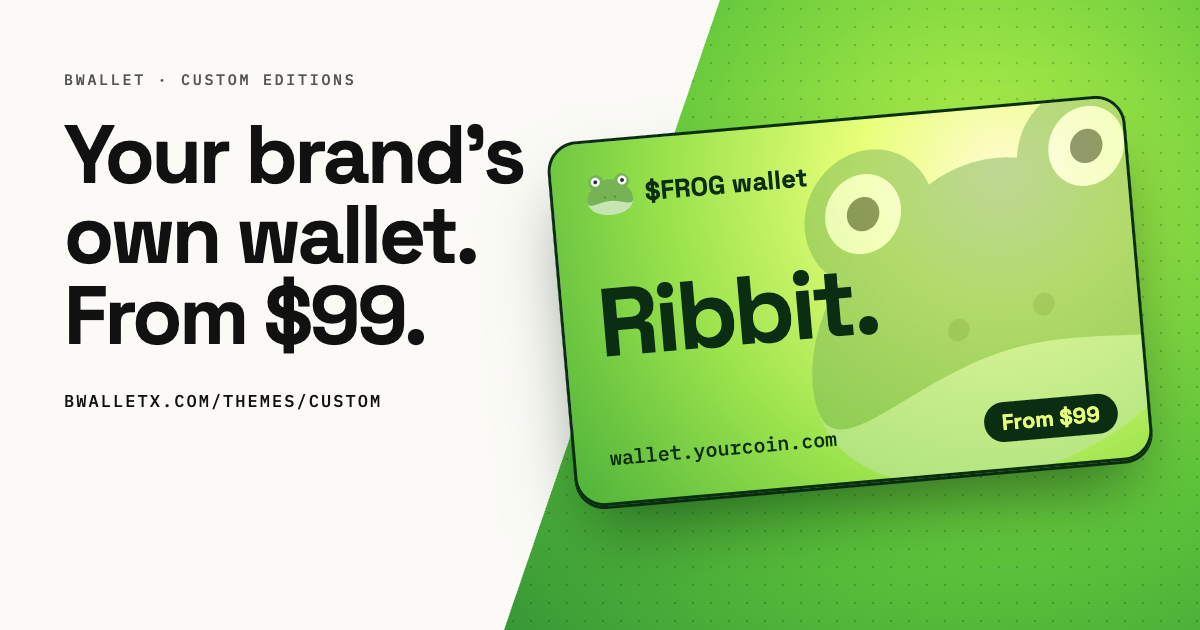
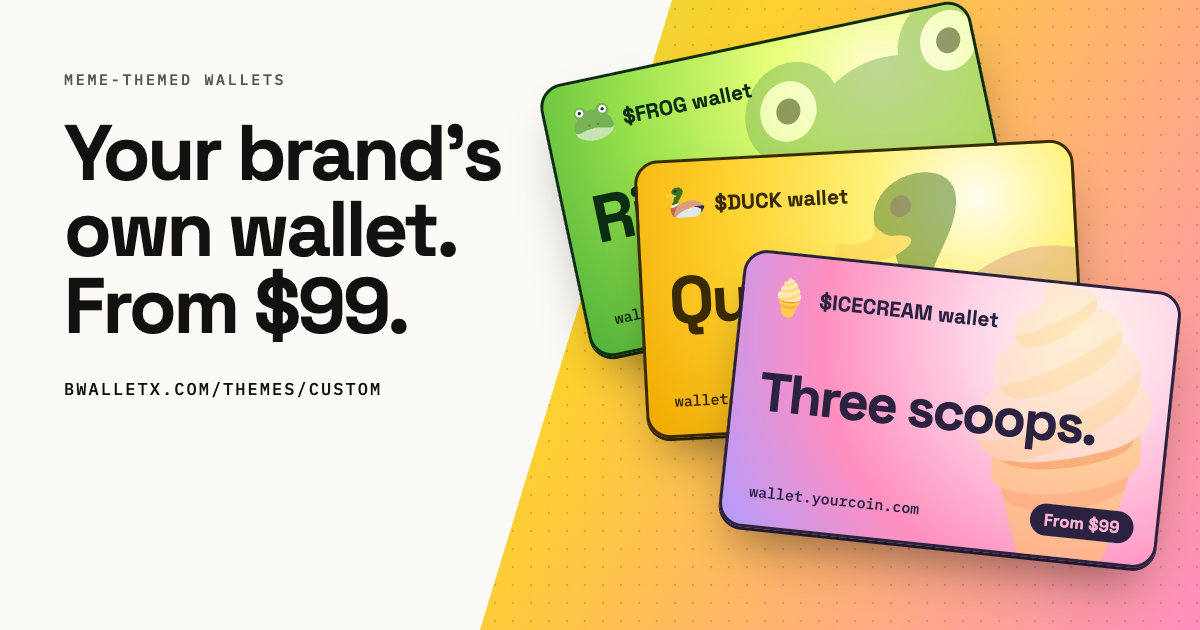
Custom editions: cycling meme wallets

diff --git a/themes-custom.html b/themes-custom.html
@@ -11,15 +11,15 @@
     <meta property="og:site_name" content="bWalletX" />
     <meta property="og:title" content="Meme wallets for memecoin communities. From $99." />
     <meta property="og:description" content="Your brand's own self-custody wallet: Theme edition $99/yr, Branded edition from $999, Native app by quote." />
-    <meta property="og:image" content="https://bwalletx.com/og-themes-custom.png?v=3" />
+    <meta property="og:image" content="https://bwalletx.com/og-themes-custom.png?v=4" />
     <meta property="og:image:width" content="1200" />
     <meta property="og:image:height" content="630" />
-    <meta property="og:image:alt" content="A diagonal split: the free black-and-white bWallet card on white, cut through to a frog-green $FROG wallet card, headed Your brand&rsquo;s own wallet. From $99." />
+    <meta property="og:image:alt" content="Three fanned meme-themed wallet cards, $FROG, $DUCK and $ICECREAM, on a diagonal split, headed Your brand&rsquo;s own wallet. From $99." />
     <meta name="twitter:card" content="summary_large_image" />
     <meta name="twitter:site" content="@bWalletX" />
     <meta name="twitter:title" content="Meme wallets for memecoin communities. From $99." />
     <meta name="twitter:description" content="Your brand's own self-custody wallet: Theme edition $99/yr, Branded edition from $999, Native app by quote." />
-    <meta name="twitter:image" content="https://bwalletx.com/og-themes-custom.png?v=3" />
+    <meta name="twitter:image" content="https://bwalletx.com/og-themes-custom.png?v=4" />
     <link rel="icon" href="/favicon.ico" />
     <meta name="theme-color" content="#f7f6f2" />
     <link rel="preconnect" href="https://fonts.googleapis.com" />
@@ -201,7 +201,7 @@
         .tblock { grid-template-columns: 1fr 1fr; }
       }
       .card .bal { font-size: clamp(1.3rem, 3.6vw, 2.2rem); }
-      .specs { display: grid; grid-template-columns: repeat(3, minmax(0,1fr)); margin-top: 48px; border-top: .5px solid var(--ink); border-left: .5px solid var(--ink); }
+      .specs { display: grid; grid-template-columns: repeat(2, minmax(0,1fr)); margin-top: 48px; border-top: .5px solid var(--ink); border-left: .5px solid var(--ink); }
       .spec { border-right: .5px solid var(--ink); border-bottom: .5px solid var(--ink); background: var(--sheet); padding: 26px 24px; display: flex; flex-direction: column; }
       .spec .sno { margin: 0 0 18px; font-size: .66rem; color: var(--muted); border-bottom: .5px solid var(--ink); padding-bottom: 10px; }
       .spec .price { font: 600 2rem var(--hf); letter-spacing: -.03em; margin: 10px 0 0; }
@@ -222,17 +222,30 @@
       .cut .tag.a { left: 20px; top: 120px; color: var(--muted); border: .5px solid var(--hair); background: var(--sheet); }
       .cut .tag.b { right: 20px; top: 120px; color: #0b2e12; background: #e8ff7a; }
       .tp section.hero .num b { color: var(--ink); }
-      .card.frog { container-type: inline-size; border: 2px solid #0b2e12; color: #0b2e12; border-radius: 22px;
-        background: radial-gradient(circle at 78% 18%, #fffbd0 0, #e8ff7a 26%, #9be34c 62%, #4fb33a 100%);
-        box-shadow: 0 30px 60px -20px rgba(6,40,14,.55), 0 2px 0 #0b2e12; transform: rotate(-4deg); }
-      .card.frog .row1 i { border-color: #0b2e12; background: #0b2e12; box-shadow: inset 0 0 0 5px #e8ff7a; }
-      .card.frog .bm { color: #0b2e12; }
-      .card.frog .bal { font-size: clamp(2.2rem, 5.6vw, 3.6rem); color: #0b2e12; }
-      .card.frog .sats { color: #1d5a24; }
-      .card.frog .addr { color: #0b2e12; }
-      .card.frog .chip { background: #0b2e12 !important; color: #e8ff7a !important; border-color: #0b2e12 !important; }
-      .card.frog .frogart { position: absolute; z-index: 0; right: -10%; top: 54%; font-family: "Apple Color Emoji", "Segoe UI Emoji", "Noto Color Emoji", sans-serif; font-size: 62cqw; line-height: 1; opacity: .48; transform: translateY(-50%) rotate(-12deg) skewX(-6deg); pointer-events: none; }
-      .card.frog .froglogo { font-family: "Apple Color Emoji", "Segoe UI Emoji", "Noto Color Emoji", sans-serif; font-size: 26px; line-height: 1; width: 30px; height: 30px; display: inline-grid; place-items: center; }
+      .card.meme { container-type: inline-size; border: 2px solid var(--mi); color: var(--mi); border-radius: 22px;
+        background: var(--mbg); box-shadow: 0 30px 60px -20px var(--msh), 0 2px 0 var(--mi); transform: rotate(-4deg); }
+      .card.meme .bm, .card.meme .bal, .card.meme .addr { color: var(--mi); }
+      .card.meme .bal { font-size: clamp(2.2rem, 5.6vw, 3.6rem); }
+      .card.meme .sats { color: var(--ms); }
+      .card.meme .chip { background: var(--mi) !important; color: var(--mc) !important; border-color: var(--mi) !important; }
+      .m-frog { --mi: #0b2e12; --ms: #1d5a24; --mc: #e8ff7a; --msh: rgba(6,40,14,.55); --mbg: radial-gradient(circle at 78% 18%, #fffbd0 0, #e8ff7a 26%, #9be34c 62%, #4fb33a 100%); }
+      .m-duck { --mi: #3a2a00; --ms: #6b4e00; --mc: #ffe14d; --msh: rgba(80,55,0,.5); --mbg: radial-gradient(circle at 78% 18%, #fffdf0 0, #fff27a 26%, #ffd12e 62%, #f2a900 100%); }
+      .m-koala { --mi: #2b2620; --ms: #4d4438; --mc: #dfe8d6; --msh: rgba(40,34,26,.55); --mbg: radial-gradient(circle at 78% 18%, #f3f5ee 0, #cfd8c4 26%, #a59a86 64%, #7d705e 100%); }
+      .m-ice { --mi: #2b2140; --ms: #4a3f60; --mc: #ffb3d1; --msh: rgba(43,33,64,.45); --mbg: radial-gradient(circle at 78% 18%, #fff8ee 0, #ffd6e8 26%, #ff8fbf 64%, #b39cff 100%); }
+      .card.meme.alt { position: absolute !important; inset: 0; }
+      .card.meme { transition: opacity .9s ease; }
+      .card.meme.off { opacity: 0; pointer-events: none; }
+      .cut .col { transition: opacity .9s ease; }
+      .cut .col.off { opacity: 0; }
+      .cut .col.c-duck { background: radial-gradient(circle at 82% 30%, #fff27a 0, #ffd12e 34%, #e09a00 78%, #8a5a00 100%); }
+      .cut .col.c-koala { background: radial-gradient(circle at 82% 30%, #dfe6d4 0, #a9b39a 34%, #7d705e 78%, #4a4034 100%); }
+      .cut .col.c-ice { background: radial-gradient(circle at 82% 30%, #ffd6e8 0, #ff8fbf 34%, #b39cff 78%, #6a55b8 100%); }
+      .mdots { position: absolute; left: 50%; bottom: -40px; transform: translateX(-50%); display: flex; gap: 10px; z-index: 3; }
+      .mdots button { width: 12px; height: 12px; border-radius: 50%; border: 1.5px solid var(--ink); background: var(--sheet); padding: 0; cursor: pointer; }
+      .mdots button[aria-current="true"] { background: var(--ink); }
+      .kicker { font: 500 .72rem var(--mono); letter-spacing: .18em; text-transform: uppercase; margin: 0 0 10px; }
+      .card.meme .frogart { position: absolute; z-index: 0; right: -10%; top: 54%; font-family: "Apple Color Emoji", "Segoe UI Emoji", "Noto Color Emoji", sans-serif; font-size: 62cqw; line-height: 1; opacity: .48; transform: translateY(-50%) rotate(-12deg) skewX(-6deg); pointer-events: none; }
+      .card.meme .froglogo { font-family: "Apple Color Emoji", "Segoe UI Emoji", "Noto Color Emoji", sans-serif; font-size: 26px; line-height: 1; width: 30px; height: 30px; display: inline-grid; place-items: center; }
       .hero .obj { isolation: isolate; }
       .card.mono { position: absolute !important; inset: 0; transform: translate(-30%, -34%) rotate(3deg) scale(.86); z-index: -1; border-radius: 22px; box-shadow: 0 1px 0 rgba(0,0,0,.08); }
       .card.mono .bal { font-size: clamp(1.4rem, 3.6vw, 2.2rem); }
@@ -244,7 +257,7 @@
         .cut .tag { display: none; }
         .hero .split > div:last-child { padding-top: 64px; }
         .card.mono { transform: translate(-4%, -30%) rotate(3deg) scale(.9); }
-        .card.frog { transform: rotate(-2deg); }
+        .card.meme { transform: rotate(-2deg); }
         .cut .dsk { display: none; } .cut .mob { display: inline; }
       }
     </style>
@@ -264,11 +277,12 @@
     <svg width="0" height="0" style="position:absolute" aria-hidden="true"><defs><symbol id="b-outline" viewBox="20 6 80 104"><g fill="none" stroke="currentColor" stroke-width="4" stroke-linejoin="round" stroke-linecap="round"><path d="M29 28 L45 12 L45 44.87 A31 31 0 1 1 29 72 Z" /><path d="M74 72 A14 14 0 1 1 46 72 A14 14 0 1 1 74 72 Z" /></g></symbol></defs></svg>
     <main class="tp">
       <section class="hero">
-        <div class="cut" aria-hidden="true"><div class="col"></div>
+        <div class="cut" aria-hidden="true"><div class="col"></div><div class="col c-duck off"></div><div class="col c-koala off"></div><div class="col c-ice off"></div>
           <svg class="dl" viewBox="0 0 100 100" preserveAspectRatio="none"><line class="dsk" x1="64" y1="0" x2="46" y2="100" stroke="#111" stroke-width="1" vector-effect="non-scaling-stroke"/><line class="mob" x1="0" y1="60" x2="100" y2="52" stroke="#111" stroke-width="1" vector-effect="non-scaling-stroke"/></svg>
           <span class="tag a">Free &middot; bWallet</span><span class="tag b">Your brand &rarr;</span></div>
         <div class="wrapx split">
           <div>
+            <p class="kicker">Meme-themed wallets</p>
             <p class="num">Meme wallets for memecoin communities <b>Sheet 00 / 05</b></p>
             <h1>Your brand&rsquo;s own wallet. From $99.</h1>
             <p class="lede">A frog-themed wallet for a frog coin. Your colours, card art, icon and name, on a self-custody wallet your community already trusts to work.</p>
@@ -284,7 +298,8 @@
               <div class="addr">you@bwalletx.com</div>
               <div class="chip">Free</div>
             </div>
-            <div class="card frog" role="img" aria-label="An example frog-themed wallet card for a frog coin">
+            <!-- Generic example themes only. Real exchange tokens appear here only via a future opt-in "featured editions" feed, with the token owner's consent. -->
+            <div class="card meme m-frog" role="img" aria-label="An example frog-themed wallet card">
               <span class="frogart" aria-hidden="true">🐸</span>
               <div class="row1"><span class="froglogo" aria-hidden="true">🐸</span>$FROG wallet</div>
               <svg class="bm" viewBox="0 0 104 124"><use href="#b-outline" /></svg>
@@ -293,6 +308,34 @@
               <div class="addr">wallet.yourcoin.com</div>
               <div class="chip">From $99</div>
             </div>
+            <div class="card meme m-duck alt off" role="img" aria-label="An example duck-themed wallet card">
+              <span class="frogart" aria-hidden="true">🦆</span>
+              <div class="row1"><span class="froglogo" aria-hidden="true">🦆</span>$DUCK wallet</div>
+              <svg class="bm" viewBox="0 0 104 124"><use href="#b-outline" /></svg>
+              <div class="bal">Quack.</div>
+              <div class="sats">Example: a duck wallet for a duck coin</div>
+              <div class="addr">wallet.yourcoin.com</div>
+              <div class="chip">From $99</div>
+            </div>
+            <div class="card meme m-koala alt off" role="img" aria-label="An example koala-themed wallet card">
+              <span class="frogart" aria-hidden="true">🐨</span>
+              <div class="row1"><span class="froglogo" aria-hidden="true">🐨</span>$KOALA wallet</div>
+              <svg class="bm" viewBox="0 0 104 124"><use href="#b-outline" /></svg>
+              <div class="bal">G&rsquo;day.</div>
+              <div class="sats">Example: a koala wallet for a koala coin</div>
+              <div class="addr">wallet.yourcoin.com</div>
+              <div class="chip">From $99</div>
+            </div>
+            <div class="card meme m-ice alt off" role="img" aria-label="An example ice-cream-themed wallet card">
+              <span class="frogart" aria-hidden="true">🍦</span>
+              <div class="row1"><span class="froglogo" aria-hidden="true">🍦</span>$ICECREAM wallet</div>
+              <svg class="bm" viewBox="0 0 104 124"><use href="#b-outline" /></svg>
+              <div class="bal">Three scoops.</div>
+              <div class="sats">Example: three friends, one token</div>
+              <div class="addr">wallet.yourcoin.com</div>
+              <div class="chip">From $99</div>
+            </div>
+            <div class="mdots" role="group" aria-label="Example wallets"><button type="button" aria-label="$FROG" aria-current="true"></button><button type="button" aria-label="$DUCK"></button><button type="button" aria-label="$KOALA"></button><button type="button" aria-label="$ICECREAM"></button></div>
             </div></div>
             <div class="tblock" aria-label="Title block">
               <div class="t"><span>bWallet &middot; Custom editions</span><svg width="14" height="14" viewBox="0 0 14 14" aria-hidden="true"><g fill="none" stroke="#d6202a" stroke-width="1"><circle cx="7" cy="7" r="4"/><path d="M7 0V14M0 7H14"/></g></svg></div>
@@ -306,8 +349,10 @@
       <section id="who">
         <div class="wrapx">
           <p class="num">01 / 05 &nbsp;Who it&rsquo;s for</p>
-          <h2>Built for communities with a brand.</h2>
+          <h2>Built for token owners.</h2>
+          <p class="lede">Own a token? Give your holders a wallet with its name on. Use it to promote the token, build a product around it, or start a business on chain.</p>
           <div class="specs">
+            <article class="spec"><p class="lbl sno">Token owners</p><h3>Promote, build, start up</h3><ul><li>Promote your token with a wallet in its colours</li><li>Build a product on it, or start a business on chain</li></ul></article>
             <article class="spec"><p class="lbl sno">Memecoin communities</p><h3>Meme wallets</h3><ul><li>A wallet themed on your meme, for your holders</li><li>A frog-themed wallet for a frog coin, a dog wallet for a dog coin</li></ul></article>
             <article class="spec"><p class="lbl sno">Businesses</p><h3>Your user base, your culture</h3><ul><li>Give customers a wallet in your colours and name</li><li>Grow a community around what you sell</li></ul></article>
             <article class="spec"><p class="lbl sno">Artists &amp; creators</p><h3>An edition for your fans</h3><ul><li>VexVoid is the showcase. <a href="/themes/vexvoid">See the VexVoid edition</a></li><li>Your art on every card</li></ul></article>
@@ -402,5 +447,18 @@
         <p style="font-size:.72rem;opacity:.7">Frog emoji: <a href="https://github.com/jdecked/twemoji" target="_blank" rel="noopener">Twemoji</a>, <a href="https://creativecommons.org/licenses/by/4.0/" target="_blank" rel="noopener">CC-BY 4.0</a></p>
       </div>
     </footer>
+    <script>
+    (function () {
+      var cards = document.querySelectorAll('.hero .card.meme'), cols = document.querySelectorAll('.cut .col'), dots = document.querySelectorAll('.mdots button');
+      if (!cards.length) return;
+      var i = 0, t = null, hover = false, reduce = window.matchMedia && matchMedia('(prefers-reduced-motion: reduce)').matches;
+      function show(n) { i = n; for (var k = 0; k < cards.length; k++) { cards[k].classList.toggle('off', k !== n); cols[k] && cols[k].classList.toggle('off', k !== n); dots[k] && dots[k].setAttribute('aria-current', k === n ? 'true' : 'false'); } }
+      function start() { if (reduce || t) return; t = setInterval(function () { if (!hover) show((i + 1) % cards.length); }, 3500); }
+      var obj = document.querySelector('.hero .obj');
+      obj.addEventListener('mouseenter', function () { hover = true; }); obj.addEventListener('mouseleave', function () { hover = false; });
+      dots.forEach(function (d, k) { d.addEventListener('click', function () { show(k); }); });
+      if (reduce) { show(0); var g = document.querySelector('.mdots'); if (g) g.hidden = true; } else start();
+    })();
+    </script>
   </body>
 </html>
